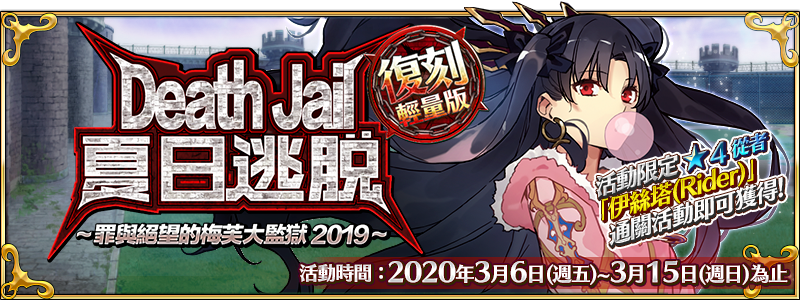
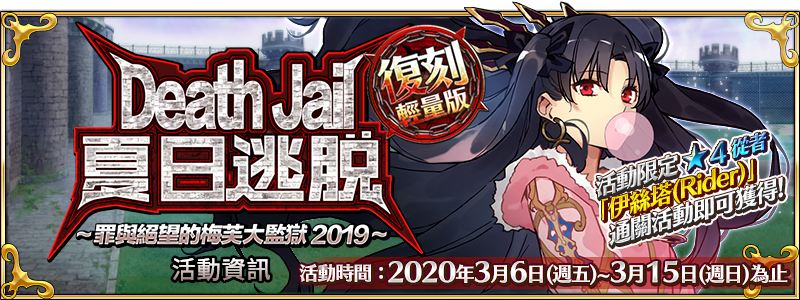
80278_JP

Changed region(s): [[0.1875, 0.84, 0.3438, 0.96]]

diff --git a/event_80278.html b/event_80278.html
@@ -1,0 +1,181 @@
+<!DOCTYPE html PUBLIC "-//W3C//DTD XHTML 1.0 Transitional//EN" "http://www.w3.org/TR/xhtml1/DTD/xhtml1-transitional.dtd">
+<html xmlns="http://www.w3.org/1999/xhtml">
+<head>
+<meta http-equiv="Content-Type" content="text/html; charset=utf-8" />
+<meta property="og:url"                content="https://kazemai.github.io/fgo-vz/event_80278.html" />
+<meta property="og:title"              content="「艾尤的春風 ～魔女與愉快夥伴與嶄新冒險～」活動資訊" />
+<meta property="og:description"        content="踏上冒險之旅，在希臘艾尤島上尋找被奪走的記憶！" />
+<meta property="og:image"              content="https://kazemai.github.io/fgo-vz/common/images/event/80278/top_banner.png?t=200307" />
+<meta property="og:type"               content="website" />
+<title>「艾尤的春風 ～魔女與愉快夥伴與嶄新冒險～」活動資訊</title>
+<link rel="icon" href="favicon.ico" type="image/vnd.microsoft.icon">
+<link href="common/css/common.css" rel="stylesheet" type="text/css" />
+<link href="common/css/detail_info.css" rel="stylesheet" type="text/css" />
+<link href="common/css/sidebar.css" rel="stylesheet" type="text/css" />
+<script type="text/javascript" src="common/js/jquery.min.js"></script>
+<script type="text/javascript" src="common/js/sidebar.js"></script>
+<script type="text/javascript" src="common/js/smoothRollOver.js"></script>
+<script type="text/javascript" src="common/js/scrollTop.js"></script>
+<script>
+  (function(i,s,o,g,r,a,m){i['GoogleAnalyticsObject']=r;i[r]=i[r]||function(){
+  (i[r].q=i[r].q||[]).push(arguments)},i[r].l=1*new Date();a=s.createElement(o),
+  m=s.getElementsByTagName(o)[0];a.async=1;a.src=g;m.parentNode.insertBefore(a,m)
+  })(window,document,'script','//www.google-analytics.com/analytics.js','ga');
+
+  ga('create', 'UA-70142247-1', 'auto');
+  ga('require', 'linkid');
+  ga('require', 'displayfeatures');
+  ga('send', 'pageview');
+</script>
+<style type="text/css">
+dl.accordion dt {
+	background: url(common/images/2016/03/arrow_open.png) 97% center no-repeat #F99988 ;
+	background-size: 20px 20px;
+	border-bottom: 1px solid #EEE;
+	height: 40px;
+	font-size: 0.9em;
+	text-indent: 10px;
+	line-height: 40px;
+	color: #FFFFFF;
+	font-weight: bold;
+}
+dl.accordion dt.open {
+	background: url(common/images/2016/03/arrow_close.png) 97% center no-repeat #F99988 ;
+	background-size: 20px 20px;
+}
+dl.accordion dd {
+	display: none;
+	margin: 0 0 10px;
+}
+dl.accordion .open {
+	display: block;
+}
+</style>
+</head>
+<body onload="loadsidebar();">
+<!--二欄橫幅主要區塊開始-->
+<div style='position:relative;'>
+    <!--選單區塊開始-->
+    <div id="div_right_sidebar"></div>
+    <!--選單區塊結束-->
+    <!--主要內容區塊開始-->
+    <div id="div_content"><div class="container">
+	<div class="topblock">
+	<a href="#quest"><div class="bkmk">關卡資訊</div></a>
+	<a href="#exchage_shop"><div class="bkmk">道具兌換</div></a>
+	</div>
+<article class="content textsize" style="width:840px">
+<p><img alt="TOPバナ" height="300" src="common/images/event/80278/top_banner.png" width="800"/></p>
+<p>本頁面資訊僅供參考，實際情況請以遊戲內資料為準。<br>
+由於直接使用官方翻譯，可能會與其他站內翻譯相異，敬請見諒。<br>
+其他公告內容請參照日版當時<a href="event_spring_wind.html">公告翻譯</a>。
+</p>
+<p><img alt="關卡" src="common/images/event/80278/quest.png" id="quest"/></p>
+
+<table style="width:100%;">
+<tr><th colspan=3>活動限定效果</th></tr>
+<tr><td style="width:60px;"><img src="common/images/SkillIcon/SkillIcon_301.png" class="itemM" /></td><td style="min-width:125px;">
+春風漂流者 EX
+</td><td>
+<a href="svtData.html?no=277"><img src="common/images/icon/faces/4038000.png" class="itemM" title="奧德修斯" /></a>
+<br>
+自身在『艾尤的春風 ～魔女與愉快夥伴與嶄新冒險～」中的攻擊威力提升100%
+</td></tr>
+<tr><td><img src="common/images/SkillIcon/SkillIcon_301.png" class="itemM" /></td><td>
+春風漂流者 A
+</td><td>
+包含下列從者的所有男性從者<br>
+<a href="svtData.html?no=270"><img src="common/images/icon/faces/1041000.png" class="itemM" title="阿斯托爾福" /></a>
+<a href="svtData.html?no=60"><img src="common/images/icon/faces/2009000.png" class="itemM" title="俄里翁" /></a>
+<a href="svtData.html?no=143"><img src="common/images/icon/faces/3008000.png" class="itemM" title="恩奇杜" /></a>
+<a href="svtData.html?no=239"><img src="common/images/icon/faces/6037000.png" class="itemM" title="伽摩" /></a>
+<a href="svtData.html?no=229"><img src="common/images/icon/faces/9006000.png" class="itemM" title="始皇帝" /></a>
+<a href="svtData.html?no=250"><img src="common/images/icon/faces/11007000.png" class="itemM" title="魔王信長" /></a>
+<a href="svtData.html?no=10"><img src="common/images/icon/faces/1026000.png" class="itemM" title="夏爾・德翁" /></a>
+<a href="svtData.html?no=94"><img src="common/images/icon/faces/4004000.png" class="itemM" title="阿斯托爾福" /></a>
+<br>
+自身在『艾尤的春風 ～魔女與愉快夥伴與嶄新冒險～」中的攻擊威力提升50%
+</td></tr>
+<tr><td><img src="common/images/SkillIcon/SkillIcon_200.png" class="itemM" /></td><td>
+<a href="ceData.html?no=1196"><img src="common/images/icon/faces/9404370.png" class="itemM" title="王権微行" /></a>
+<a href="ceData.html?no=1197"><img src="common/images/icon/faces/9404380.png" class="itemM" title="ブルー・イリュージョン" /></a>
+</td><td>
+可疑蜂蜜的掉落獲得數增加1個(最大解放:2個)
+</td></tr>
+<tr><td><img src="common/images/SkillIcon/SkillIcon_200.png" class="itemM" /></td><td>
+<a href="ceData.html?no=1198"><img src="common/images/icon/faces/9404390.png" class="itemM" title="エクスクルーシブ・テイラー" /></a>
+<a href="ceData.html?no=1199"><img src="common/images/icon/faces/9404400.png" class="itemM" title="探偵ヱドモン～新章突入編～" /></a>
+<a href="ceData.html?no=1200"><img src="common/images/icon/faces/9404410.png" class="itemM" title="俺様生徒会" /></a>
+</td><td>
+詭異藥草的掉落獲得數增加1個(最大解放:2個)
+</td></tr>
+<tr><td><img src="common/images/SkillIcon/SkillIcon_200.png" class="itemM" /></td><td>
+<a href="ceData.html?no=1201"><img src="common/images/icon/faces/9404420.png" class="itemM" title="乱世上々" /></a>
+<a href="ceData.html?no=1202"><img src="common/images/icon/faces/9404430.png" class="itemM" title="ゴッズ・ディール" /></a><br>
+<a href="ceData.html?no=1203"><img src="common/images/icon/faces/9404440.png" class="itemM" title="ダディ・レターライブ" /></a>
+<a href="ceData.html?no=1204"><img src="common/images/icon/faces/9404450.png" class="itemM" title="ブザー・ビーター" /></a>
+</td><td>
+奇妙麥袋的掉落獲得數增加1個(最大解放:2個)
+</td></tr>
+</table>
+
+<p>採用GoogleDrive資料夾呈現</p>
+<iframe src="https://drive.google.com/embeddedfolderview?id=19M3HgY4DZXccyHzXUv5w4BGMyT19SGs_#grid" width="100%" height="300" frameborder="0">Loading...</iframe>
+<!-- 
+<dl class="accordion">
+<dt>高難度關卡</dt>
+<dd>
+</dd>
+</dl>
+ -->
+
+<p><img alt="商店" src="common/images/event/80278/exchage_shop.png" id="exchage_shop"/></p>
+<div class="exchage_box"><table width="200" style="text-align:center;"><tr><th colspan="4">可疑蜂蜜</th></tr><tr><th>交換物</th><th>需求數</th><th>限制</th><th>共需</th>
+  <tr><td><img src="common/images/icon/faces/95704000.png" onerror='this.style.display = "none"' class="itemS" title="英霊結晶・流星のフォウくん" alt="英霊結晶・流星のフォウくん" /></td><td>200</td><td>2</td><td>400</td></tr>
+  <tr><td><img src="common/images/icon/faces/96704000.png" onerror='this.style.display = "none"' class="itemS" title="英霊結晶・日輪のフォウくん" alt="英霊結晶・日輪のフォウくん" /></td><td>200</td><td>2</td><td>400</td></tr>
+  <tr><td><img src="common/images/icon/items/5002.png" onerror="this.src=common/images/icon/items/0.png" class="itemS" alt="バスター・コード・オープナー" title="バスター・コード・オープナー" /></td><td>100</td><td>1</td><td>100</td></tr>
+  <tr><td><img src="common/images/icon/items/5003.png" onerror="this.src=common/images/icon/items/0.png" class="itemS" alt="コード・リムーバー" title="コード・リムーバー" /></td><td>100</td><td>1</td><td>100</td></tr>
+  <tr><td><img src="common/images/icon/items/6525.png" onerror="this.src=common/images/icon/items/0.png" class="itemS" alt="智慧のスカラベ" title="智慧のスカラベ" /></td><td>40</td><td>10</td><td>400</td></tr>
+  <tr><td><img src="common/images/icon/items/6528.png" onerror="this.src=common/images/icon/items/0.png" class="itemS" alt="原初の産毛" title="原初の産毛" /></td><td>30</td><td>20</td><td>600</td></tr>
+  <tr><td><img src="common/images/icon/items/6543.png" onerror="this.src=common/images/icon/items/0.png" class="itemS" alt="光銀の冠" title="光銀の冠" /></td><td>20</td><td>20</td><td>400</td></tr>
+  <tr><td><img src="common/images/icon/items/7103.png" onerror="this.src=common/images/icon/items/0.png" class="itemS" alt="ランサーモニュメント" title="ランサーモニュメント" /></td><td>20</td><td>20</td><td>400</td></tr>
+  <tr><td><img src="common/images/icon/items/7104.png" onerror="this.src=common/images/icon/items/0.png" class="itemS" alt="ライダーモニュメント" title="ライダーモニュメント" /></td><td>20</td><td>20</td><td>400</td></tr>
+  <tr><td><img src="common/images/icon/items/7105.png" onerror="this.src=common/images/icon/items/0.png" class="itemS" alt="キャスターモニュメント" title="キャスターモニュメント" /></td><td>20</td><td>20</td><td>400</td></tr>
+  <tr><td><img src="common/images/icon/items/5.png" onerror="this.src=common/images/icon/items/0.png" class="itemS" alt="QP" title="10,000 QP" /></td><td>3</td><td>0</td><td>0</td></tr>
+  <tr><th colspan="3">合計</th><td>3,600</td></tr></table></div>
+<div class="exchage_box"><table width="200" style="text-align:center;"><tr><th colspan="4">詭異藥草</th></tr><tr><th>交換物</th><th>需求數</th><th>限制</th><th>共需</th>
+  <tr><td><img src="common/images/icon/faces/96704000.png" onerror='this.style.display = "none"' class="itemS" title="英霊結晶・日輪のフォウくん" alt="英霊結晶・日輪のフォウくん" /></td><td>200</td><td>1</td><td>200</td></tr>
+  <tr><td><img src="common/images/icon/items/5000.png" onerror="this.src=common/images/icon/items/0.png" class="itemS" alt="クイック・コード・オープナー" title="クイック・コード・オープナー" /></td><td>100</td><td>1</td><td>100</td></tr>
+  <tr><td><img src="common/images/icon/items/5003.png" onerror="this.src=common/images/icon/items/0.png" class="itemS" alt="コード・リムーバー" title="コード・リムーバー" /></td><td>100</td><td>1</td><td>100</td></tr>
+  <tr><td><img src="common/images/icon/items/6517.png" onerror="this.src=common/images/icon/items/0.png" class="itemS" alt="蛮神の心臓" title="蛮神の心臓" /></td><td>40</td><td>10</td><td>400</td></tr>
+  <tr><td><img src="common/images/icon/items/6501.png" onerror="this.src=common/images/icon/items/0.png" class="itemS" alt="鳳凰の羽根" title="鳳凰の羽根" /></td><td>25</td><td>20</td><td>500</td></tr>
+  <tr><td><img src="common/images/icon/items/6513.png" onerror="this.src=common/images/icon/items/0.png" class="itemS" alt="隕蹄鉄" title="隕蹄鉄" /></td><td>20</td><td>20</td><td>400</td></tr>
+  <tr><td><img src="common/images/icon/items/7003.png" onerror="this.src=common/images/icon/items/0.png" class="itemS" alt="ランサーピース" title="ランサーピース" /></td><td>20</td><td>20</td><td>400</td></tr>
+  <tr><td><img src="common/images/icon/items/7004.png" onerror="this.src=common/images/icon/items/0.png" class="itemS" alt="ライダーピース" title="ライダーピース" /></td><td>20</td><td>20</td><td>400</td></tr>
+  <tr><td><img src="common/images/icon/items/7005.png" onerror="this.src=common/images/icon/items/0.png" class="itemS" alt="キャスターピース" title="キャスターピース" /></td><td>20</td><td>20</td><td>400</td></tr>
+  <tr><td><img src="common/images/icon/items/94046503.png" onerror="this.src=common/images/icon/items/0.png" class="itemS" alt="疑惑のハチミツ" title="疑惑のハチミツ" /></td><td>10</td><td>0</td><td>0</td></tr>
+  <tr><th colspan="3">合計</th><td>2,900</td></tr></table></div>
+<div class="exchage_box"><table width="200" style="text-align:center;"><tr><th colspan="4">奇妙麥袋</th></tr><tr><th>交換物</th><th>需求數</th><th>限制</th><th>共需</th>
+  <tr><td><img src="common/images/icon/faces/95704000.png" onerror='this.style.display = "none"' class="itemS" title="英霊結晶・流星のフォウくん" alt="英霊結晶・流星のフォウくん" /></td><td>200</td><td>1</td><td>200</td></tr>
+  <tr><td><img src="common/images/icon/items/5001.png" onerror="this.src=common/images/icon/items/0.png" class="itemS" alt="アーツ・コード・オープナー" title="アーツ・コード・オープナー" /></td><td>100</td><td>1</td><td>100</td></tr>
+  <tr><td><img src="common/images/icon/items/5003.png" onerror="this.src=common/images/icon/items/0.png" class="itemS" alt="コード・リムーバー" title="コード・リムーバー" /></td><td>100</td><td>1</td><td>100</td></tr>
+  <tr><td><img src="common/images/icon/items/6510.png" onerror="this.src=common/images/icon/items/0.png" class="itemS" alt="無間の歯車" title="無間の歯車" /></td><td>20</td><td>20</td><td>400</td></tr>
+  <tr><td><img src="common/images/icon/items/6511.png" onerror="this.src=common/images/icon/items/0.png" class="itemS" alt="禁断の頁" title="禁断の頁" /></td><td>20</td><td>20</td><td>400</td></tr>
+  <tr><td><img src="common/images/icon/items/6530.png" onerror="this.src=common/images/icon/items/0.png" class="itemS" alt="魔術髄液" title="魔術髄液" /></td><td>15</td><td>30</td><td>450</td></tr>
+  <tr><td><img src="common/images/icon/faces/95703000.png" onerror='this.style.display = "none"' class="itemS" title="英霊結晶・星のフォウくん" alt="英霊結晶・星のフォウくん" /></td><td>20</td><td>20</td><td>400</td></tr>
+  <tr><td><img src="common/images/icon/faces/96703000.png" onerror='this.style.display = "none"' class="itemS" title="英霊結晶・太陽のフォウくん" alt="英霊結晶・太陽のフォウくん" /></td><td>20</td><td>20</td><td>400</td></tr>
+  <tr><td><img src="common/images/icon/faces/9770400.png" onerror='this.style.display = "none"' class="itemS" title="叡智の猛火" alt="9770400" /></td><td>6</td><td>100</td><td>600</td></tr>
+  <tr><td><img src="common/images/icon/faces/9770300.png" onerror='this.style.display = "none"' class="itemS" title="叡智の大火" alt="9770300" /></td><td>3</td><td>100</td><td>300</td></tr>
+  <tr><td><img src="common/images/icon/items/94046502.png" onerror="this.src=common/images/icon/items/0.png" class="itemS" alt="不気味な薬草" title="不気味な薬草" /></td><td>10</td><td>0</td><td>0</td></tr>
+  <tr><th colspan="3">合計</th><td>3,350</td></tr></table></div>
+<div></div>
+
+</article>
+</div>
+<div id="gotop"><a href="#"><img src="common/images/btn_gotop_off.jpg" width="47" height="47" alt="返回頂端" /></a></div>
+    </div>
+    <!--主要內容區塊結束-->
+</div>
+<!--二欄橫幅主要區塊結束-->
+</body>
+</html>

diff --git a/event_80109.html b/event_80109.html
@@ -145,8 +145,44 @@ dl.accordion .open {
 <iframe src="https://drive.google.com/embeddedfolderview?id=1r48xPOGTr2iABj3qWcY97RkqcmlxbAMX#grid" width="100%" height="300" frameborder="0">Loading...</iframe>
 <!-- 
 <dl class="accordion">
-<dt>主線關卡</dt>
+<dt>高難度關卡</dt>
 <dd>
+<table style="width:100%"><tr><th colspan=6><font color=#DDAA00>【高難度】天之公牛</font></th></tr><tr><th style="width:10%">消耗AP</th><th style="width:10%">推薦Lv.</th><th style="width:30%">初次報酬</th><th colspan=3>開放條件</th></tr><tr style="text-align:center;"><td>5</td><td>90+</td><td><div class="itemST" style="background-image: url('common/images/icon/items/6999.png')" title="傳承結晶"></div></td><td colspan=3>終局特異點<br/>任一活動後日談<br/></td></tr><tr><th rowspan=2 colspan=2><font color=#888888>∞</font></th><th>職階傾向</th><th style="width:10%">QP</th><th style="width:10%">Exp</th><th style="width:10%">絆</th></tr><tr style="text-align:center;"><td><img src="common/images/icon/class/class_4_3.png" class="classS" /><img src="common/images/icon/class/class_2_3.png" class="classS" /></td><td>9,400</td><td>38,190</td><td>915</td></tr>
+  <tr><th rowspan="2">Wave 1</th><td style="text-align:center;">1</td><td colspan="4"></td></tr><tr><td style="text-align:center;">2</td><td colspan="4">
+    <div class="itemMT" style="background-image: url('../enemy/2020002.png')" title="伊絲塔"></div><img src="common/images/icon/class/class_2_5.png" class="classS"> Lv.90 伊絲塔 HP209,475<br></td></tr>
+  <tr><th rowspan="2">Wave 2</th><td style="text-align:center;">1</td><td colspan="4"></td></tr><tr><td style="text-align:center;">2</td><td colspan="4">
+	<table class="table_non"><tr><td>
+    <div class="itemMT" style="background-image: url('../enemy/99395001.png')" title="古伽蘭那"></div></td><td>
+	  <img src="../enemy/banner/hp_icon_1_2.png" class="classS"><img src="../enemy/banner/hp_icon_1_3.png" class="classS">
+	  <img src="common/images/icon/class/class_4_4.png" class="classS"> Lv.80 古伽蘭那 HP424,287<br/>
+	  <img src="../enemy/banner/hp_icon_1_2.png" class="classS"><img src="../enemy/banner/hp_icon_1_0.png" class="classS">
+	  <img src="common/images/icon/class/class_4_4.png" class="classS"> Lv.80 古伽蘭那 HP594,001<br/>
+	  <img src="../enemy/banner/hp_icon_1_0.png" class="classS"><img src="../enemy/banner/hp_icon_1_0.png" class="classS">
+	  <img src="common/images/icon/class/class_4_4.png" class="classS"> Lv.80 古伽蘭那 HP848,574<br/>
+    </tr></table>
+	<tr style="text-align:center;"><th colspan=1>特殊效果</th><td colspan=5>
+	<table  style="width:100%;" border="0">
+	<tr><th colspan="2">古伽蘭那</th></tr>
+	<tr><td>技能</td><td><strong>氾濫的底格里斯</strong><br>
+	敵單體的強化狀態解除</td></tr>
+	<tr><td>技能</td><td><strong>乾旱的美索不達米亞</strong><br>
+	敵全體星星減少10個＋自身Critical發生率提升20%(3回合)</td></tr>
+	<tr><td>技能</td><td><strong>動蕩的幼發拉底</strong><br>
+	敵單體的Quick或Arts或Buster卡性能下降20%</td></tr>
+	<tr><td>第一次BREAK</td><td><strong>蒼天的蘇美爾</strong><br>
+	自身的強化狀態解除＋敵全體的強化狀態解除</td></tr>
+	<tr><td>第二次BREAK</td><td><strong>連接天地的風暴之柱</strong><br>
+	普通攻撃時，自身的攻擊力提升10%(3回合)</td></tr>
+	<tr><td>寶具</td><td><strong>天鳴神殿古伽拉伊南娜</strong><br>
+	對敵方全體攻擊(400%)＆賦予技能封印狀態(1回合)＆賦予寶具封印狀態(1回合) </td></tr>
+	</table>
+  <tr style="text-align:center;"><th colspan=1>戰利品</th><td colspan=5>
+    <div class="itemST" style="background-image: url('common/images/icon/items/6525.png')"></div>
+    <div class="itemST" style="background-image: url('common/images/icon/items/7102.png')"></div>
+  </td></tr>	
+  </td></tr>
+	</td></tr></table>
+
 </dd>
 </dl>
  -->

diff --git a/event_spring_wind.html b/event_spring_wind.html
@@ -4,7 +4,7 @@
 <meta http-equiv="Content-Type" content="text/html; charset=utf-8" />
 <meta property="og:url"                content="https://kazemai.github.io/fgo-vz/event_spring_wind.html" />
 <meta property="og:title"              content="「艾尤的春風 ～魔女與愉快夥伴與嶄新冒險～」期間限定活動舉辦！" />
-<meta property="og:description"        content="預定自2020年3月6日(五)舉辦「艾尤的春風 ～魔女與愉快夥伴與嶄新冒險～」！" />
+<meta property="og:description"        content="踏上冒險之旅，在希臘艾尤島上尋找被奪走的記憶！" />
 <meta property="og:image"              content="https://kazemai.github.io/fgo-vz/common/images/2020/spring_wind_qkbkc/top_banner.png?t=200304" />
 <meta property="og:type"               content="website" />
 <title>「艾尤的春風 ～魔女與愉快夥伴與嶄新冒險～」期間限定活動舉辦！</title>
@@ -59,6 +59,7 @@
 <article class="content textsize" style="width:840px">
 <!-- block--->
 <p><img alt="TOPバナー" height="300" src="common/images/2020/spring_wind_qkbkc/top_banner.png" width="800"/></p>
+<a href="event_80278.html"><div class="sidebar" style="background-image:url(common/images/sidebar00.png);float:right;margin-top:0px;margin-right:40px;">活動資訊</div></a>
 <div style="height:10px; margin-top:-15px;"></div>
 <p><img alt="" src="common/images/2020/spring_wind_qkbkc/prologue.png"/></p>
 <p class="heading" id="ttl1"><img alt="" src="common/images/2020/spring_wind_qkbkc/midashi_01.png"/></p>

diff --git a/index.html b/index.html
@@ -200,6 +200,7 @@ $(function(){
 </table>
 </div>
 <hr>
+<a href="event_80278.html"><div class="sidebar" style="background-image:url(common/images/sidebar00.png);float:right;margin-top:0px;margin-right:40px;">活動資訊</div></a>
 <strong><font color="#094a98">◆</font>從者<font color="#094a98">◆</font></strong>
 <div class="paragraph_details">
 ・新增從者<br>
